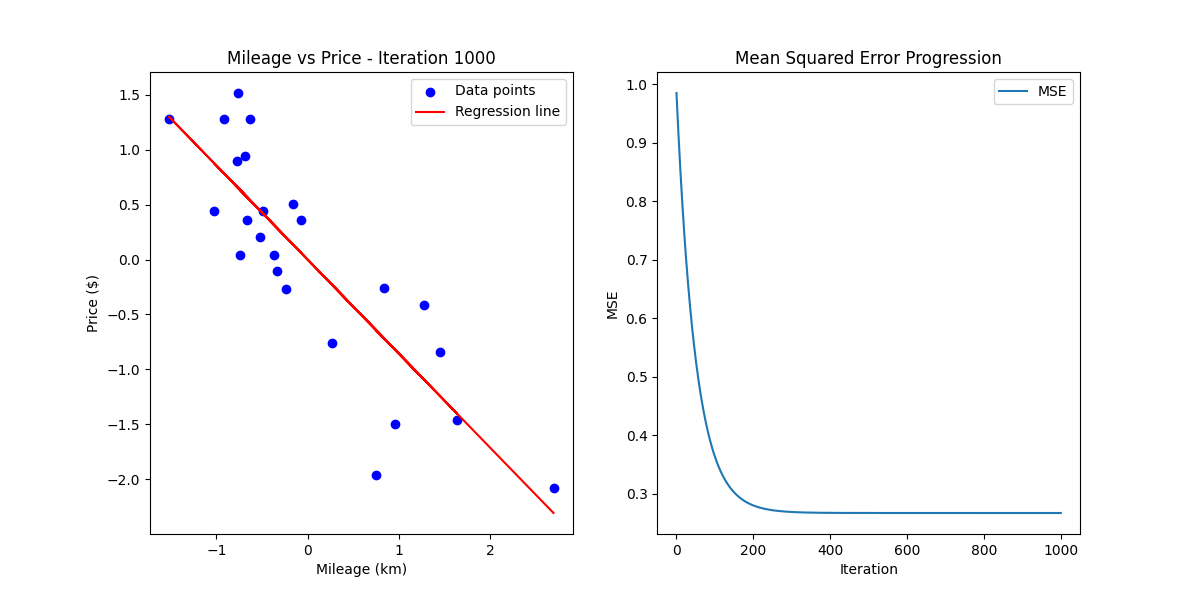
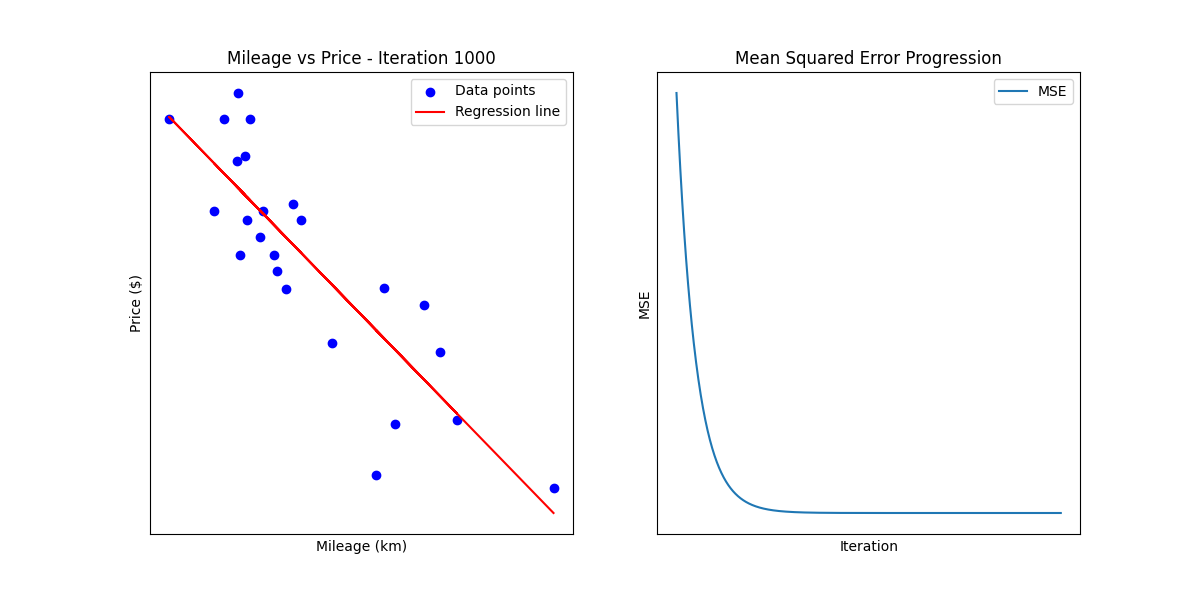
mejorando

diff --git a/train.py b/train.py
@@ -57,6 +57,8 @@ for i in range(iterations):
         plt.ylabel('Price ($)')
         plt.title('Mileage vs Price - Iteration {}'.format(i))
         plt.legend()
+        plt.xticks([])
+        plt.yticks([])
 
         plt.subplot(1, 2, 2)
         plt.plot(range(i+1), mse_history[:i+1], label='MSE')
@@ -64,6 +66,8 @@ for i in range(iterations):
         plt.ylabel('MSE')
         plt.title('Mean Squared Error Progression')
         plt.legend()
+        plt.xticks([])
+        plt.yticks([])
 
         plt.savefig('training_progresion.png')
         plt.show()
@@ -97,4 +101,4 @@ plt.savefig('progresion.png')
 plt.close()
 
 print('Mean Squared Error:', mse)
-print('Model trained and saved.')
+print('\033[92m' + 'Model trained and saved.' + '\033[0m')
